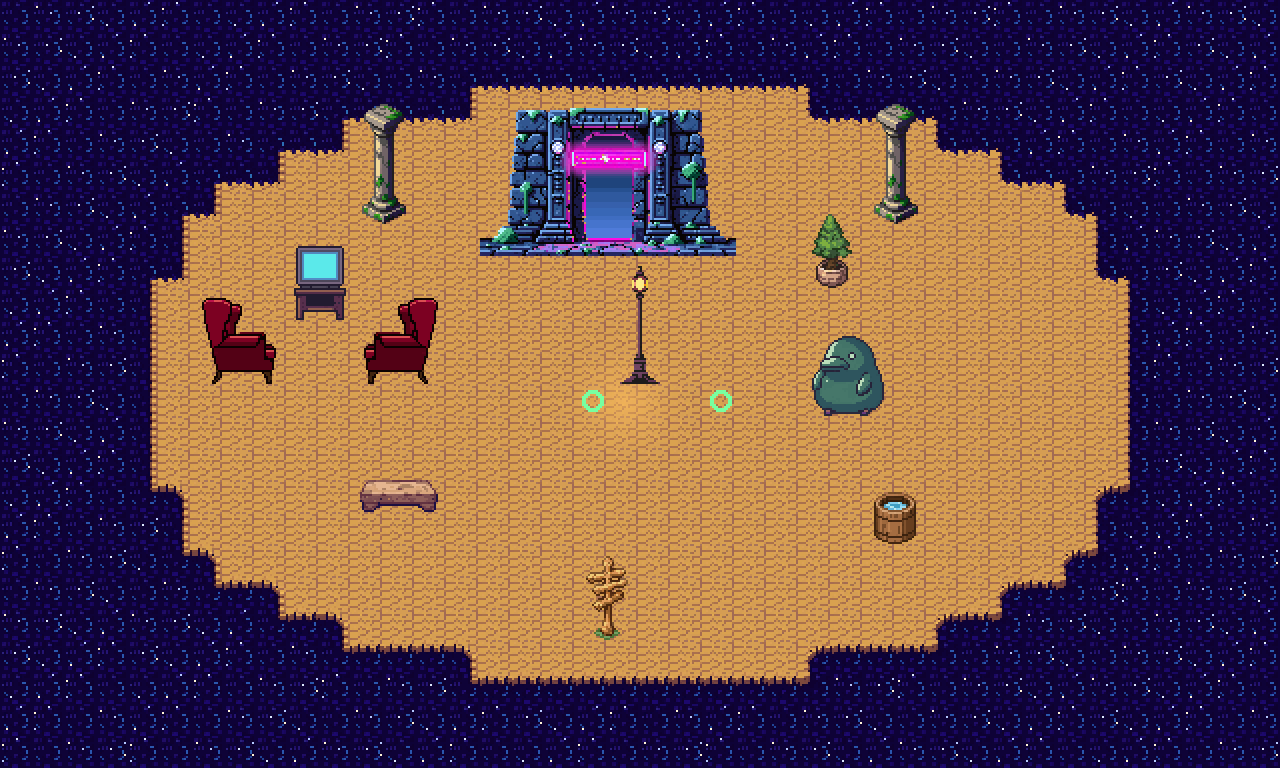
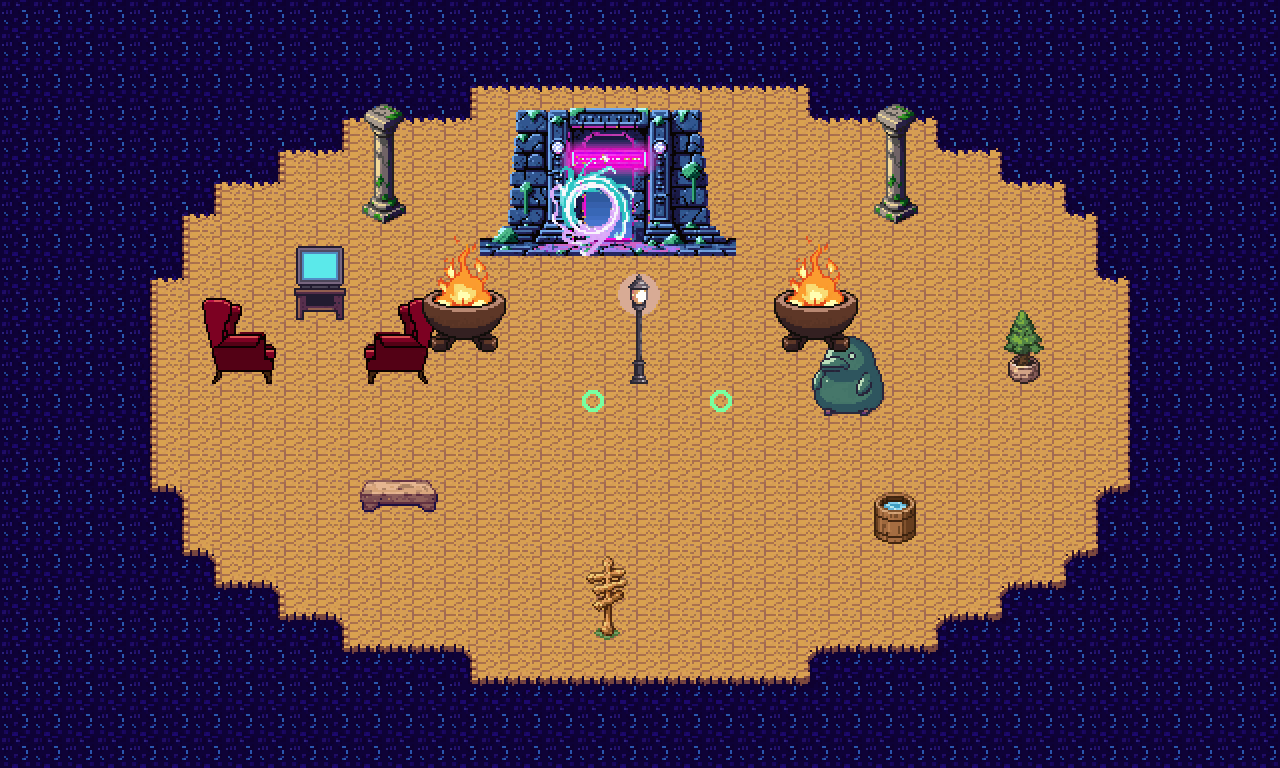
feat(space): animate maps with real PixelLab prop art
Add clock-driven animated tiles to the virtual-space engine and use them
to bring the End of Time scene to life with real generated pixel art —
flickering fire braziers, a flame-lit lamp, and a swirling portal — with
zero procedural animation.

- sprite_atlas: a tile with `frames`/`period_ms` cycles horizontally-packed
  frames on a global clock, phase-offset by a per-position seed so repeated
  tiles desync.
- renderer: pass `now` + `seedAt(x,y)` through the floor and decor blits.
- EndOfTime map: pass `frames`/`period_ms` (and `flip_x`) vocab keys through
  to the client atlas.
- author_scene.py: pack PixelLab object-animation frame strips
  (fire/lamp/portal) into the sheet; the void is now a static image tile
  (no procedural twinkle). Two braziers flank the gateway.

diff --git a/e2e/tests/space-end-of-time.spec.ts b/e2e/tests/space-end-of-time.spec.ts
@@ -1,13 +1,33 @@
-import { test, expect } from '@playwright/test';
-import { newSignedInUser, closeUsers, uniqueChannel, TestUser } from '../helpers/chatUsers';
+import { test, expect, Locator } from "@playwright/test";
+import {
+  newSignedInUser,
+  closeUsers,
+  uniqueChannel,
+  TestUser,
+} from "../helpers/chatUsers";
+
+// A compact hash of the canvas pixels — changes when anything redraws.
+function canvasSignature(canvas: Locator): Promise<number> {
+  return canvas.evaluate((el: HTMLCanvasElement) => {
+    const ctx = el.getContext("2d");
+    if (!ctx || !el.width || !el.height) return 0;
+    const { data } = ctx.getImageData(0, 0, el.width, el.height);
+    let sum = 0;
+    for (let i = 0; i < data.length; i += 97)
+      sum = (sum + data[i] * ((i % 251) + 1)) % 1_000_003;
+    return sum;
+  });
+}
 
 // The direct-message space renders the cozy "End of Time" cosmic-island scene.
-test.describe('End of Time private space', () => {
-  test('a PM space mounts the End of Time scene with the chosen avatar', async ({ browser }) => {
-    const alice: TestUser = await newSignedInUser(browser, 'eota');
-    const bob: TestUser = await newSignedInUser(browser, 'eotb');
+test.describe("End of Time private space", () => {
+  test("a PM space mounts the End of Time scene with the chosen avatar", async ({
+    browser,
+  }) => {
+    const alice: TestUser = await newSignedInUser(browser, "eota");
+    const bob: TestUser = await newSignedInUser(browser, "eotb");
     try {
-      const channel = uniqueChannel('eot');
+      const channel = uniqueChannel("eot");
       await alice.chat.sendMessage(`/join ${channel}`);
       await bob.chat.sendMessage(`/join ${channel}`);
 
@@ -16,7 +36,9 @@ test.describe('End of Time private space', () => {
 
       const page = alice.page;
       await page.getByTestId(`pm-${bob.nick}`).click();
-      await expect(page.getByPlaceholder(new RegExp(`Message to ${bob.nick}`))).toBeVisible();
+      await expect(
+        page.getByPlaceholder(new RegExp(`Message to ${bob.nick}`)),
+      ).toBeVisible();
 
       const spaceTab = page.locator(
         '[data-testid="topic-bar"] [data-testid="channel-view-tabs"] button[phx-value-view="space"]',
@@ -25,8 +47,8 @@ test.describe('End of Time private space', () => {
       await spaceTab.click();
 
       // Character picker gates the DM canvas.
-      await expect(page.getByTestId('space-character-select')).toBeVisible();
-      await page.getByTestId('space-avatar-knight').click();
+      await expect(page.getByTestId("space-character-select")).toBeVisible();
+      await page.getByTestId("space-avatar-knight").click();
 
       const shell = page.locator(
         '[data-testid="channel-space-shell"][data-space-mode="direct_message"][data-avatar="knight"]',
@@ -37,21 +59,17 @@ test.describe('End of Time private space', () => {
 
       // The world draws the island + props + avatar onto the canvas.
       await expect
-        .poll(
-          () =>
-            canvas.evaluate((el: HTMLCanvasElement) => {
-              const ctx = el.getContext('2d');
-              if (!ctx || !el.width || !el.height) return 0;
-              const { data } = ctx.getImageData(0, 0, el.width, el.height);
-              let sum = 0;
-              for (let i = 0; i < data.length; i += 997) sum = (sum + data[i]) % 1_000_000;
-              return sum;
-            }),
-          { timeout: 10_000 },
-        )
+        .poll(() => canvasSignature(canvas), { timeout: 10_000 })
         .toBeGreaterThan(0);
+      await page.screenshot({ path: "test-results/end-of-time.png" });
 
-      await page.screenshot({ path: 'test-results/end-of-time.png' });
+      // Nobody moves, yet the scene keeps redrawing: the real PixelLab prop
+      // animations (flickering braziers, flame-lit lamp, swirling portal)
+      // advance frames on the global clock.
+      const before = await canvasSignature(canvas);
+      await page.waitForTimeout(1300);
+      const after = await canvasSignature(canvas);
+      expect(after).not.toBe(before);
     } finally {
       await closeUsers([alice, bob]);
     }

diff --git a/apps/retro_hex_chat_web/assets/js/lib/space/renderer.js b/apps/retro_hex_chat_web/assets/js/lib/space/renderer.js
@@ -28,6 +28,12 @@ const HOLO_GLOW = "1f6f7d";
 const HOLO_FG = "9ff6ff";
 const HOLO_FONT = "10px monospace";
 
+// Deterministic per-tile phase seed so repeated animated tiles (stars, water)
+// don't cycle in lockstep — the atlas offsets an animated tile's clock by it.
+function seedAt(x, y) {
+  return (Math.trunc(x) * 73856093) ^ (Math.trunc(y) * 19349663);
+}
+
 export class Renderer {
   /**
    * @param {object} opts
@@ -65,8 +71,8 @@ export class Renderer {
     ctx.clearRect(0, 0, this.canvas.width, this.canvas.height);
     ctx.fillStyle = HASH + VOID_BG;
     ctx.fillRect(0, 0, this.canvas.width, this.canvas.height);
-    this._drawFloor(ctx);
-    this._drawDecor(ctx);
+    this._drawFloor(ctx, now);
+    this._drawDecor(ctx, now);
     this._drawMapLabels(ctx);
 
     const ordered = [...state.participants.values()].sort((a, b) => a.y - b.y);
@@ -86,7 +92,7 @@ export class Renderer {
 
   // ── Layers ───────────────────────────────────────────────────────
 
-  _drawFloor(ctx) {
+  _drawFloor(ctx, now = 0) {
     const startX = Math.floor(this.camera.x / this.tilePx);
     const startY = Math.floor(this.camera.y / this.tilePx);
     const cols = Math.ceil(this.canvas.width / this.tilePx) + 1;
@@ -103,16 +109,16 @@ export class Renderer {
         const tileId = this.map.floorTile(tx, ty);
         // Lay the opaque ground first so transparent props read over it.
         if (ground && tileId !== this.map.ground) this._blit(ctx, ground, dx, dy);
-        this._blit(ctx, this.atlas?.tile(tileId), dx, dy);
+        this._blit(ctx, this.atlas?.tile(tileId, now, seedAt(tx, ty)), dx, dy);
       }
     }
   }
 
   // Multi-tile props anchored at their top-left tile, drawn at their native
   // sprite size over the floor.
-  _drawDecor(ctx) {
+  _drawDecor(ctx, now = 0) {
     for (const prop of this.map.decor ?? []) {
-      const sprite = this.atlas?.tile(prop.tile);
+      const sprite = this.atlas?.tile(prop.tile, now, seedAt(prop.x, prop.y));
       if (!sprite) continue;
       const { x, y } = this.camera.worldToScreen(prop.x * this.tilePx, prop.y * this.tilePx);
       this._blit(ctx, sprite, Math.round(x), Math.round(y));

diff --git a/apps/retro_hex_chat_web/assets/test/lib/space/sprite_atlas.test.js b/apps/retro_hex_chat_web/assets/test/lib/space/sprite_atlas.test.js
@@ -60,6 +60,26 @@ describe("sprite atlas contract", () => {
     expect(atlas.tile("mirrored_chair")).toMatchObject({ sx: 112, sy: 144, flipX: true });
   });
 
+  it("cycles an animated tile's frame on the clock, offset by the seed", () => {
+    const atlas = loadedAtlas();
+    atlas.registerTiles({
+      ...TILES,
+      water: { ts: "overworld", col: 4, row: 2, w: 1, h: 1, frames: 4, period_ms: 800 },
+    });
+    // 4 frames over 800ms → 200ms each, packed horizontally from col 4.
+    expect(atlas.tile("water", 0, 0)).toMatchObject({ sx: 64, sy: 32, sw: 16 });
+    expect(atlas.tile("water", 250, 0)).toMatchObject({ sx: 80 });
+    expect(atlas.tile("water", 650, 0)).toMatchObject({ sx: 112 });
+    expect(atlas.tile("water", 850, 0)).toMatchObject({ sx: 64 }); // wraps
+
+    // A per-position seed offsets the phase so repeated tiles desync.
+    const cols = [0, 1, 2].map((s) => atlas.tile("water", 0, s).sx);
+    expect(new Set(cols).size).toBeGreaterThan(1);
+
+    // A static tile ignores now/seed entirely.
+    expect(atlas.tile("grass", 999, 42)).toMatchObject({ sx: 80, sy: 144 });
+  });
+
   it("shares one sheet image across every tile from it", () => {
     const atlas = loadedAtlas();
     expect(atlas.tile("grass").img).toBe(atlas.tile("tree").img);

diff --git a/apps/retro_hex_chat_web/assets/js/lib/space/sprite_atlas.js b/apps/retro_hex_chat_web/assets/js/lib/space/sprite_atlas.js
@@ -119,7 +119,11 @@ export function createSpriteAtlas(opts = {}) {
     if (dict && typeof dict === "object") tiles = dict;
   }
 
-  function tile(name) {
+  // Resolve a tile name to a source rect. Static tiles ignore `now`/`seed`.
+  // Animated tiles (`frames > 1`) pack their frames horizontally from `col`
+  // (frame i at col + i*w) and cycle on a global clock; `seed` (a per-position
+  // hash from the renderer) offsets the phase so repeated tiles desync.
+  function tile(name, now = 0, seed = 0) {
     const spec = tiles[name];
     if (!spec) return null;
     const sheet = sheets.get(spec.ts);
@@ -127,9 +131,17 @@ export function createSpriteAtlas(opts = {}) {
     const t = sheet.tile;
     const w = spec.w ?? 1;
     const h = spec.h ?? 1;
+    let col = spec.col;
+    const frames = spec.frames ?? 1;
+    if (frames > 1) {
+      const period = spec.period_ms ?? 800;
+      const phase = ((seed >>> 0) * 2654435761) % period;
+      const idx = Math.floor((now + phase) / (period / frames)) % frames;
+      col = spec.col + idx * w;
+    }
     return {
       img: sheet.img,
-      sx: spec.col * t,
+      sx: col * t,
       sy: spec.row * t,
       sw: w * t,
       sh: h * t,

diff --git a/virtual.space/tools/author_scene.py b/virtual.space/tools/author_scene.py
@@ -42,60 +42,57 @@ ELLIPSE = {"cx": 20.0, "cy": 12.0, "rx": 15.5, "ry": 9.2, "p": 2.6}
 # chairs face each other (left one faces right, right one is the mirror) with
 # the TV set between them, a little higher up.
 DECOR = [
-    ("eot_glow", 17, 10),
     ("eot_pillar", 11, 3),
     ("eot_pillar", 27, 3),
-    ("eot_sapling", 25, 6),
+    ("eot_sapling", 31, 9),
     ("eot_armchair", 6, 9),
     ("eot_armchair_l", 11, 9),
     ("eot_tv", 9, 7),
     ("eot_nu", 25, 10),
     ("eot_artifact", 15, 3),
+    ("eot_portal", 17, 5),
+    ("eot_fire", 13, 7),
+    ("eot_fire", 24, 7),
     ("eot_bench", 11, 14),
     ("eot_bucket", 27, 15),
     ("eot_signpost", 18, 17),
     ("eot_lamp", 19, 8),
 ]
 # Solid footprints (the tiles a prop blocks): (col, row, w, h).
-SOLID = [(11, 6, 2, 1), (27, 6, 2, 1), (25, 8, 2, 1), (11, 15, 3, 1),
+SOLID = [(11, 6, 2, 1), (27, 6, 2, 1), (31, 11, 2, 1), (11, 15, 3, 1),
          (27, 16, 2, 1), (18, 19, 1, 1), (19, 11, 2, 1),
          (6, 11, 3, 1), (11, 11, 3, 1), (9, 9, 2, 1),
-         (25, 12, 3, 1), (16, 7, 6, 1)]
+         (25, 12, 3, 1), (16, 7, 6, 1), (13, 10, 3, 1), (24, 10, 3, 1)]
 SPAWN = [{"x": 18, "y": 12, "dir": "right"}, {"x": 22, "y": 12, "dir": "left"}]
+
+# Animated props: real PixelLab object animations. name -> (frames folder under
+# scenes/end_of_time/anim/, sheet col, sheet row, w, h, period_ms). Frames are
+# packed as a horizontal strip from (col,row); the atlas cycles them.
+ANIM_PROPS = {
+    "eot_fire": ("fire", 0, 19, 3, 4, 660),
+    "eot_lamp": ("lamp", 0, 23, 2, 4, 780),
+    "eot_portal": ("portal", 0, 27, 3, 3, 700),
+}
 
 
 def _compose_sheet():
     wang = Image.open(os.path.join(SRC, "floor_wang.png")).convert("RGBA")
     lut = json.load(open(os.path.join(SRC, "wang_lut.json")))
-    cols = 16
-    sheet = Image.new("RGBA", (cols * T, 19 * T), (0, 0, 0, 0))
+    cols = 18
+    sheet = Image.new("RGBA", (cols * T, 30 * T), (0, 0, 0, 0))
     vocab = {}
     sheet.alpha_composite(wang, (0, 0))
     for combo, (x, y) in lut.items():
         vocab["f" + combo] = {"col": x // T, "row": y // T, "w": 1, "h": 1}
+
+    # Static starfield void tile — the PixelLab Wang tileset's own void terrain
+    # (image-based; no procedural stars).
     vx, vy = lut["0000"]
-    base = wang.crop((vx, vy, vx + T, vy + T))
-    star = [(220, 232, 255, 255), (180, 200, 255, 255), (255, 244, 214, 255)]
-    for i in range(6):
-        v = base.copy()
-        px = v.load()
-        for k in range((i % 3) + 1 if i else 0):
-            sx = (i * 5 + k * 7 + 3) % 14 + 1
-            sy = (i * 3 + k * 11 + 2) % 14 + 1
-            px[sx, sy] = star[(i + k) % 3]
-        sheet.alpha_composite(v, (i * T, 4 * T))
-        vocab[f"void{i}"] = {"col": i, "row": 4, "w": 1, "h": 1}
-    gw = 5 * T
-    glow = Image.new("RGBA", (gw, gw), (0, 0, 0, 0))
-    gp = glow.load()
-    for y in range(gw):
-        for x in range(gw):
-            d = math.hypot(x - gw / 2, y - gw / 2) / (gw / 2)
-            gp[x, y] = (255, 190, 95, int(max(0.0, 1 - d) ** 2 * 0.6 * 255))
-    sheet.alpha_composite(glow, (0, 5 * T))
-    vocab["eot_glow"] = {"col": 0, "row": 5, "w": 5, "h": 5}
+    sheet.alpha_composite(wang.crop((vx, vy, vx + T, vy + T)), (0, 4 * T))
+    vocab["void"] = {"col": 0, "row": 4, "w": 1, "h": 1}
+
     props = {
-        "eot_lamp": ("lamp.png", 6, 0, 2, 4), "eot_pillar": ("pillar.png", 8, 0, 2, 4),
+        "eot_pillar": ("pillar.png", 8, 0, 2, 4),
         "eot_sapling": ("sapling.png", 10, 0, 2, 3), "eot_signpost": ("signpost.png", 12, 0, 2, 3),
         "eot_bench": ("bench.png", 6, 5, 3, 2), "eot_bucket": ("bucket.png", 9, 5, 2, 2),
         "eot_tv": ("tv.png", 14, 0, 2, 3), "eot_armchair": ("armchair_side.png", 6, 7, 3, 3),
@@ -117,6 +114,34 @@ def _compose_sheet():
     # the two chairs face each other.
     av = vocab["eot_armchair"]
     vocab["eot_armchair_l"] = {**av, "flip_x": True}
+
+    # Animated props: real PixelLab object animations (frames downloaded into
+    # scenes/end_of_time/anim/<name>/) packed as horizontal frame strips. Each
+    # frame is auto-cropped and bottom-centered into its w×h block, like a
+    # static prop; the atlas cycles them on the global clock.
+    for name, (folder, col, row, w, h, period) in ANIM_PROPS.items():
+        adir = os.path.join(SRC, "anim", folder)
+        frames = []
+        i = 0
+        while os.path.exists(os.path.join(adir, f"{i}.png")):
+            frames.append(os.path.join(adir, f"{i}.png"))
+            i += 1
+        if not frames:
+            raise FileNotFoundError(f"no animation frames for {name} in {adir}")
+        for i, fp in enumerate(frames):
+            im = Image.open(fp).convert("RGBA")
+            crop = im.crop(im.getbbox() or (0, 0, im.width, im.height))
+            if crop.width > w * T:
+                o = (crop.width - w * T) // 2
+                crop = crop.crop((o, 0, o + w * T, crop.height))
+            if crop.height > h * T:
+                crop = crop.crop((0, crop.height - h * T, crop.width, crop.height))
+            block = Image.new("RGBA", (w * T, h * T), (0, 0, 0, 0))
+            block.alpha_composite(crop, ((w * T - crop.width) // 2, h * T - crop.height))
+            sheet.alpha_composite(block, ((col + i * w) * T, row * T))
+        vocab[name] = {"col": col, "row": row, "w": w, "h": h,
+                       "frames": len(frames), "period_ms": period}
+
     return sheet, vocab, cols
 
 
@@ -148,7 +173,7 @@ def build():
         row = []
         for x in range(W):
             nw, ne, sw, se = g[y][x], g[y][x + 1], g[y + 1][x], g[y + 1][x + 1]
-            row.append(f"void{_hash(x, y) % 6}" if not (nw or ne or sw or se) else f"f{nw}{ne}{sw}{se}")
+            row.append("void" if not (nw or ne or sw or se) else f"f{nw}{ne}{sw}{se}")
         floor.append(row)
     solid = {(x + dx, y + dy) for (x, y, w, h) in SOLID for dx in range(w) for dy in range(h)}
     collision = []
@@ -159,7 +184,7 @@ def build():
             elif (x, y) in solid:
                 collision.append({"x": x, "y": y, "w": 1, "h": 1, "kind": "prop"})
     layout = {
-        "width": W, "height": H, "tile_size": T, "ground": "void0", "columns": cols,
+        "width": W, "height": H, "tile_size": T, "ground": "void", "columns": cols,
         "vocab": vocab,
         "floor": floor,
         "decor": [{"x": c, "y": r, "tile": n} for (n, c, r) in DECOR],
